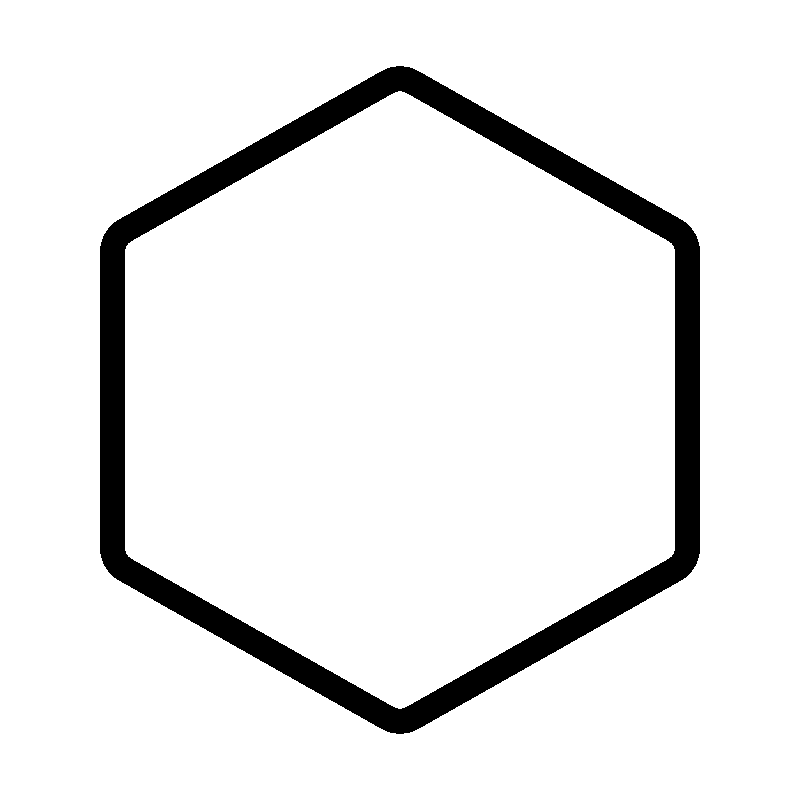
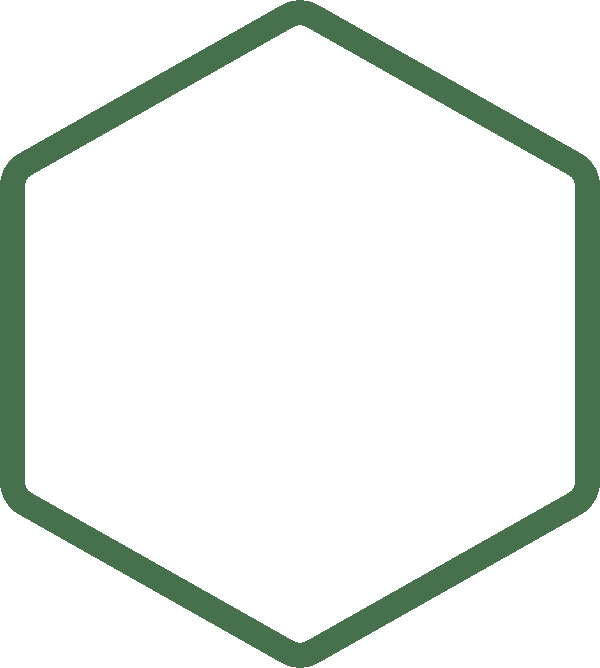
sexagon

Changed region(s): [[0.0, 0.0, 1.0, 1.0]]

diff --git a/main.go b/main.go
@@ -3,6 +3,10 @@ package main
 import (
 	"bytes"
 	"fmt"
+	"math"
+
+	//"math"
+
 	//"fmt"
 	_ "embed"
 	"image"
@@ -21,13 +25,14 @@ const (
 	screenWidth  = 500
 	screenHeight = 500
 	maxAngle     = 256
+    gridRadius = 25
 )
 
 var (
 	ebitenImage *ebiten.Image
 )
 
-//go:embed tile.png
+//go:embed hex.png
 var TileIMG []byte
 
 func init() {
@@ -37,19 +42,19 @@ func init() {
 		log.Fatal(err)
 	}
 	origEbitenImage := ebiten.NewImageFromImage(img)
-	ebitenImage = ebiten.NewImage(50, 50)
+	ebitenImage = ebiten.NewImage(64, 64)
 
 	op := &ebiten.DrawImageOptions{}
-    op.GeoM.Scale(0.0625, 0.0625)
+    op.GeoM.Scale(0.25, 0.25)
 	op.ColorScale.ScaleAlpha(0.5)
 	ebitenImage.DrawImage(origEbitenImage, op)
 }
 
 type Tile struct {
-	width   int
-	height  int
-	x           int
-	y           int
+	width int
+	height int
+	x int
+	y int
     lx int
     ly int
 }
@@ -83,8 +88,12 @@ func (g *Game) init() {
     }
     for j := 0; j < g.grid.y; j++ {
         for i := 0; i < g.grid.x; i++ {
-            w, h := ebitenImage.Bounds().Dx(), ebitenImage.Bounds().Dy()
-            x, y := w * i, h * j
+            w, h := gridRadius * 2 - 10, gridRadius * 2 - 3
+            ymult := 1.0
+            if i % 2 != 0 {
+                ymult = 2
+            }
+            x, y := w * i + gridRadius, h * j + int(math.Floor(gridRadius*ymult))
             g.grid.tiles[j][i] = &Tile{
                 width:  w,
                 height: h,
@@ -119,9 +128,11 @@ func (g *Game) Draw(screen *ebiten.Image) {
 	for j := 0; j < len(g.grid.tiles); j++ {
         for i := 0; i < len(g.grid.tiles[j]); i++ {
             s := g.grid.tiles[j][i]
-            g.op.GeoM.Reset()
-            g.op.GeoM.Translate(float64(s.x), float64(s.y))
-            screen.DrawImage(ebitenImage, &g.op)
+            //g.op.GeoM.Reset()
+            //g.op.GeoM.Rotate(math.Pi/4)
+            //g.op.GeoM.Translate(float64(s.x), float64(s.y))
+            //screen.DrawImage(ebitenImage, &g.op)
+            drawPolygon(6, s.x, s.y, gridRadius, color.RGBA{R: 255, B: 255, G: 255}, screen)
         }
 	}
 }

diff --git a/polygon.go b/polygon.go
@@ -1,0 +1,53 @@
+package main
+
+import (
+	"math"
+	_ "embed"
+    "image"
+    "image/color"
+	_ "image/png"
+
+	"github.com/hajimehoshi/ebiten/v2"
+)
+
+func genVertices(num int, centerX float32, centerY float32, r float64, hc color.RGBA) []ebiten.Vertex {
+	vs := []ebiten.Vertex{}
+	for i := 0; i < num; i++ {
+		rate := float64(i) / float64(num)
+		vs = append(vs, ebiten.Vertex{
+			DstX:   float32(r*math.Cos(2*math.Pi*rate)) + centerX,
+			DstY:   float32(r*math.Sin(2*math.Pi*rate)) + centerY,
+			SrcX:   0,
+			SrcY:   0,
+			ColorR: float32(hc.R),
+			ColorG: float32(hc.G),
+			ColorB: float32(hc.B),
+			ColorA: 1,
+		})
+	}
+
+	vs = append(vs, ebiten.Vertex{
+		DstX:   centerX,
+		DstY:   centerY,
+		SrcX:   0,
+		SrcY:   0,
+		ColorR: 1,
+		ColorG: 1,
+		ColorB: 1,
+		ColorA: 1,
+	})
+
+	return vs
+}
+
+func drawPolygon(n int, x int, y int, r int, hc color.RGBA, screen *ebiten.Image) {
+    op := &ebiten.DrawTrianglesOptions{}
+	op.Address = ebiten.AddressUnsafe
+	indices := []uint16{}
+	for i := 0; i < n; i++ {
+		indices = append(indices, uint16(i), uint16(i+1)%uint16(n), uint16(n))
+	}
+    whiteImage := ebiten.NewImage(3, 3)
+    whiteImage.Fill(hc)
+	screen.DrawTriangles(genVertices(n, float32(x), float32(y), float64(r), hc), indices, whiteImage.SubImage(image.Rect(1, 1, 2, 2)).(*ebiten.Image), op)
+}
